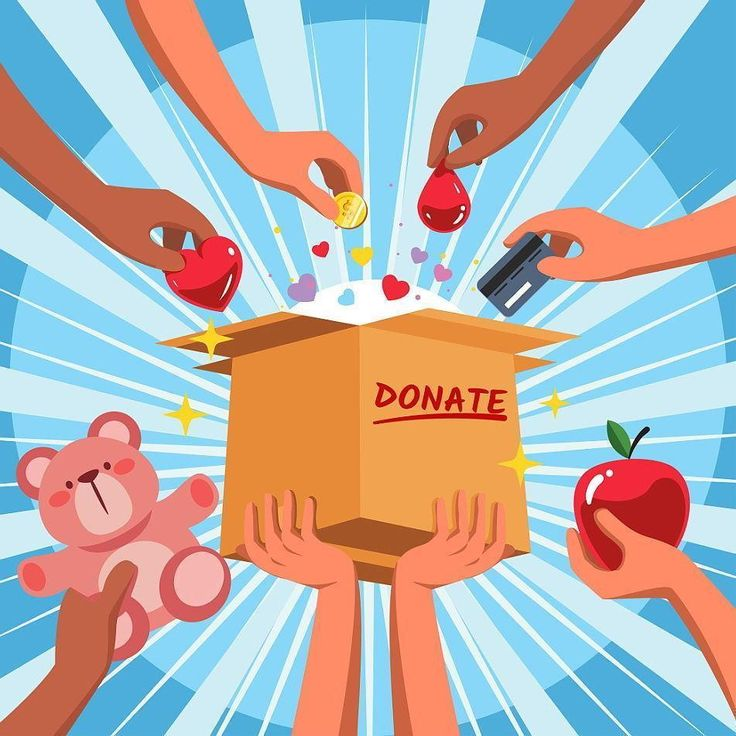
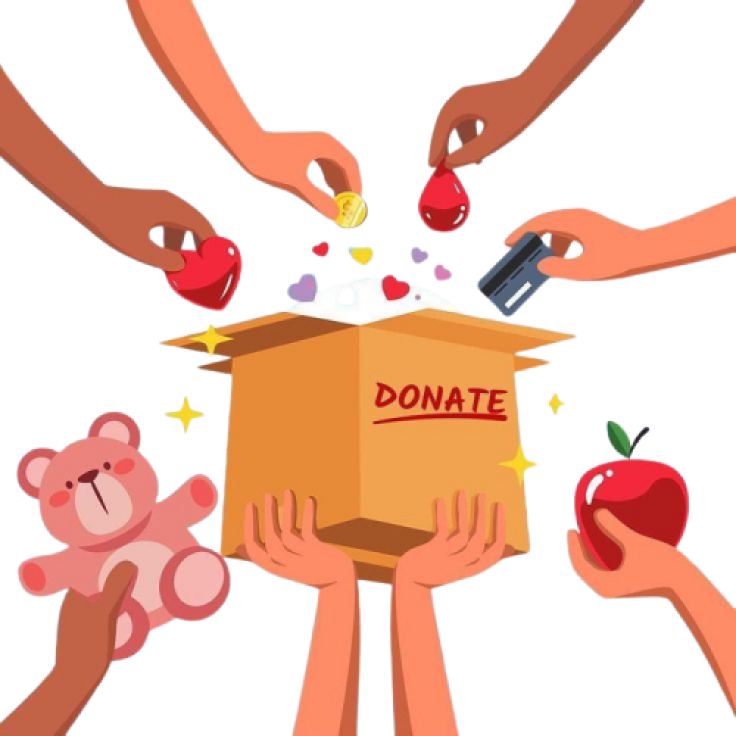
Update ReliefPopup button text to "Donate Now" and enhance book drive description

diff --git a/app/bookdrive/page.jsx b/app/bookdrive/page.jsx
@@ -17,7 +17,7 @@ export default function Page() {
             RefreeG Christmas drive
           </h1>
           <p className="text-gray-700 text-lg lg:text-xl mb-6">
-            At RefreeG, we believe that access to books is crucial in unlocking
+            At RefreeG, we believe that access to books,Gadgets ,money andd cloths is crucial in unlocking
             the potential of children and communities. Our Christmas drive is
             dedicated to collecting and distributing books to those who need
             them most, from underfunded schools to community libraries in need
@@ -85,7 +85,7 @@ export default function Page() {
               <div className="text-green-500 text-3xl mb-4">📚</div>
               <h3 className="text-xl font-bold mb-2">What to Donate?</h3>
               <p className="text-gray-700">
-                We accept children's books, textbooks, novels, educational
+                We accept children's books,gadget ,money,clothes, textbooks, novels, educational
                 books, and more. Donating these books ensures they reach those
                 who will use them to grow and expand their knowledge.
               </p>

diff --git a/app/(root)/(home)/components/ReliefPopup.jsx b/app/(root)/(home)/components/ReliefPopup.jsx
@@ -40,7 +40,7 @@ const ReliefPopup = ({ onClose, onScrollToRelief }) => {
             href={"/bookdrive"}
             className="flex gap-[6px] bg-[#036] mt-6 py-[10px] px-[15px] rounded-[8px]  hover:bg-blue-700 text-white text-[15px] items-center justify-center font-semibold"
           >
-            Donate
+            Donate Now
             <ArrowRight size={"18"} />
           </Link>
         </div>
